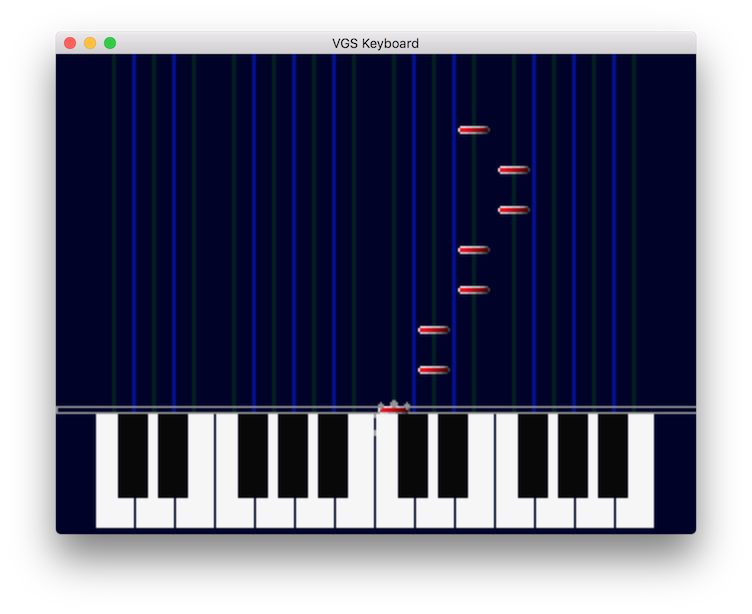
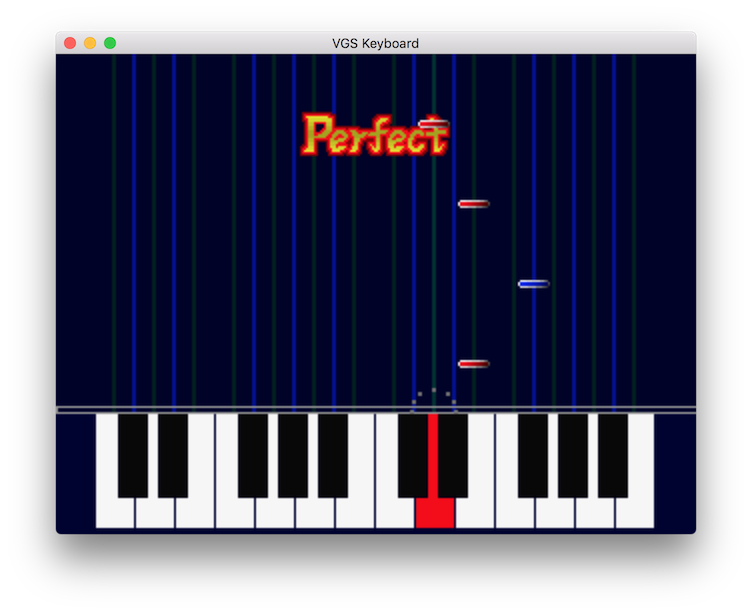
判定演出を実装

diff --git a/VGSKeyboard/game.c b/VGSKeyboard/game.c
@@ -112,6 +112,12 @@ struct Bomb {
     int y;
 };
 
+struct Result {
+    int flag;
+    int type;
+    int an;
+};
+
 struct ScoreElement {
     int pos;
     int interval;
@@ -135,9 +141,36 @@ struct GameTable {
     int b_idx;
     int push[24];
     int prev[24];
+    struct Result r;
     int spos;
     int z;
 } TBL;
+
+void show_result(int type) {
+    TBL.r.flag = 1;
+    TBL.r.type = type;
+    TBL.r.an = 0;
+}
+
+void draw_result() {
+    if (TBL.r.flag) {
+        int ys;
+        int xs = TBL.r.an * 8;
+        if (xs < 0) {
+            xs = 1;
+        } else if (80 < xs) {
+            xs = 80;
+        }
+        ys = xs * 3 / 10;
+        if (ys) {
+            vgs2_putSPE(3, 0, TBL.r.type * 24, 80, 24, (320 - xs) / 2, (240 - ys) / 2 - 80, xs, ys);
+        }
+        TBL.r.an++;
+        if (30 < TBL.r.an) {
+            TBL.r.flag = 0;
+        }
+    }
+}
 
 void push_check() {
     int i, now;
@@ -208,22 +241,22 @@ void draw_notes() {
             if (TBL.push[TBL.n[i].pos]) {
                 if (HITCHK(TBL.n[i].x, TBL.n[i].y, 16, 4, 0, 176, 320, 4)) {
                     // perfect
-                    puts("perfect");
+                    show_result(4);
                     TBL.n[i].flag = 0;
                     add_bomb(TBL.n[i].pos, TBL.n[i].y);
                 } else if (HITCHK(TBL.n[i].x, TBL.n[i].y, 16, 4, 0, 174, 320, 8)) {
                     // great
-                    puts("great");
+                    show_result(3);
                     TBL.n[i].flag = 0;
                     add_bomb(TBL.n[i].pos, TBL.n[i].y);
                 } else if (HITCHK(TBL.n[i].x, TBL.n[i].y, 16, 4, 0, 172, 320, 12)) {
                     // good
-                    puts("good");
+                    show_result(2);
                     TBL.n[i].flag = 0;
                     add_bomb(TBL.n[i].pos, TBL.n[i].y);
                 } else if (HITCHK(TBL.n[i].x, TBL.n[i].y, 16, 4, 0, 170, 320, 16)) {
                     // bad
-                    puts("bad");
+                    show_result(1);
                     TBL.n[i].flag = 0;
                     add_bomb(TBL.n[i].pos, TBL.n[i].y);
                 }
@@ -234,7 +267,7 @@ void draw_notes() {
                 if (200 < TBL.n[i].y) {
                     TBL.n[i].flag = 0;
                     // miss
-                    puts("miss");
+                    show_result(0);
                 }
             }
         }
@@ -268,6 +301,7 @@ void draw_lane(int x, int y) {
 void draw_keyboard(int x, int y) {
     int i;
     int n = 0;
+    vgs2_boxfSP(0, y, 320, 240, 3);
     for (i = 0; i < 14; i++, n++) {
         vgs2_boxfSP(i * 20 + x, y, i * 20 + x + 18, y + 56, KEY_FLAG[KEY_MAP[n]] ? 31 : 111);
     }
@@ -318,6 +352,7 @@ int vgs2_loop() {
     push_check();
     draw_lane(20, 180);
     vgs2_boxSP(0, 176, 320, 179, 105);
+    draw_result();
     draw_notes();
     draw_bomb();
     draw_keyboard(20, 180);

diff --git a/README.md b/README.md
@@ -15,7 +15,7 @@
 - [x] 単発ノーツ
 - [ ] ロング・ノーツ
 - [ ] コンボ
-- [ ] 判定演出
+- [x] 判定演出
 - [ ] VGS musicとノーツの連携
 - [ ] 東方VGSの[赤より紅い夢](https://github.com/suzukiplan/Touhou-VGS-MML-data/blob/master/data/BSLOT000.mml)で遊べる状態にする
 
